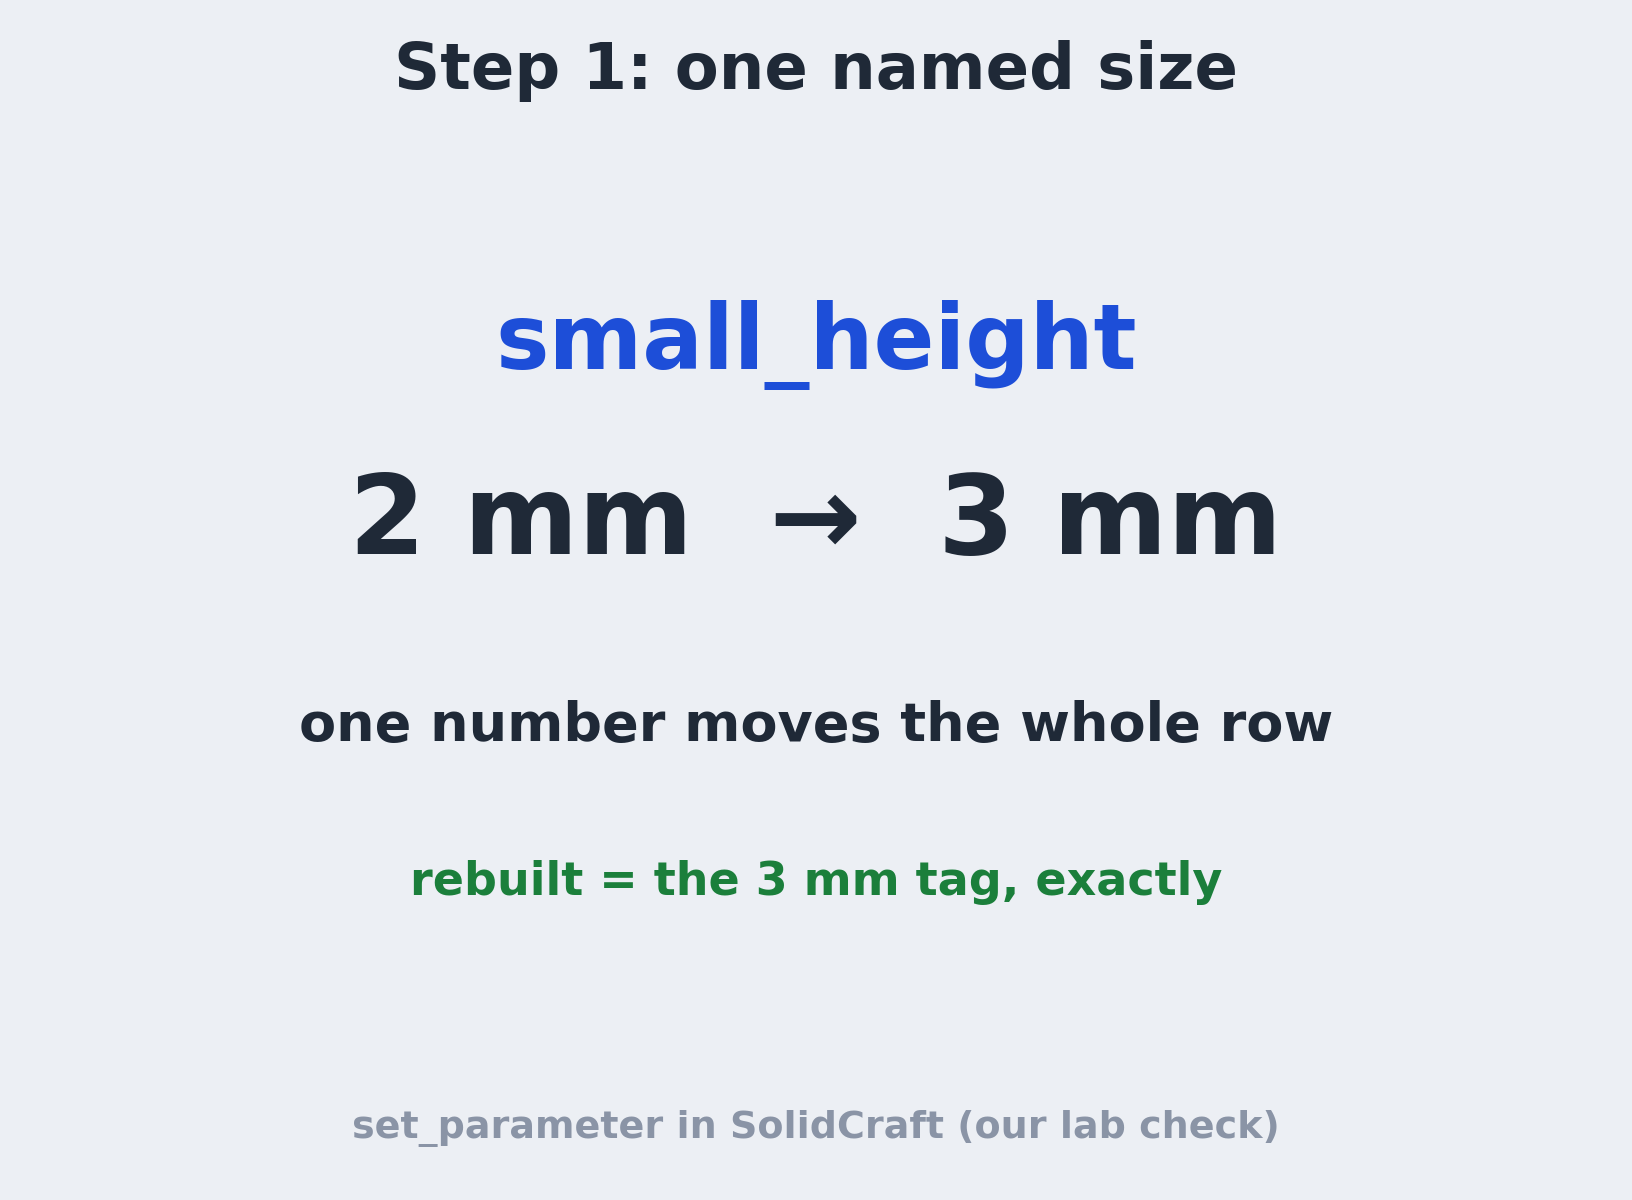
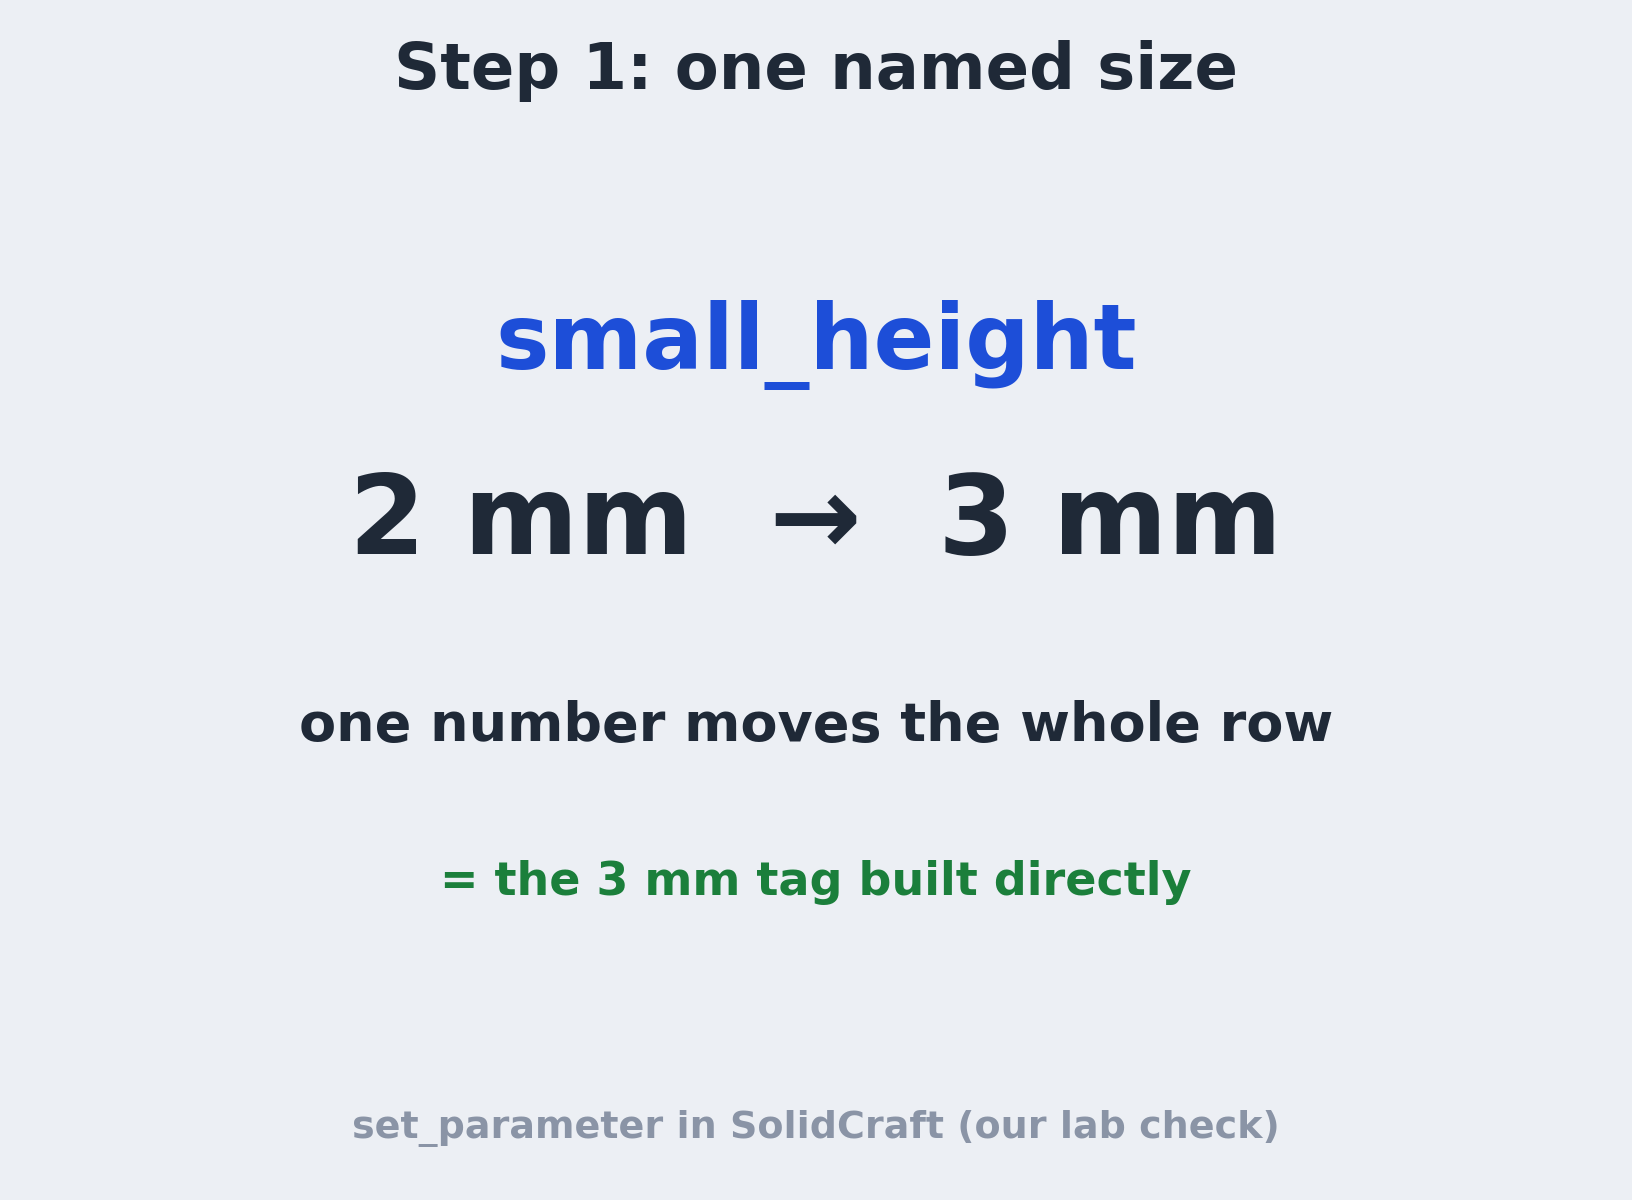
Final files for the 25 Oct GO

Changed region(s): [[0.25, 0.7092, 0.75, 0.7708]]

diff --git a/video/draw.py b/video/draw.py
@@ -290,7 +290,7 @@ def replies():
     for i, l in enumerate(q):
         text(f, 120, 200 + i * 110, l, 50, INK, ha='left')
     text(f, W / 2, 800, "the slicer's plan: within 2%", 54, GREEN)
-    text(f, W / 2, 900, 'guessed 5.5 mm · enough here: 3 mm', 48, INK)
+    text(f, W / 2, 900, 'they picked 5-5.5 mm · enough in our test: 3 mm', 44, INK)
     text(f, W / 2, 1110, 'quotes from each run\'s own reply', 38, GREY)
     save(f, 'card-replies.png')
 
@@ -303,7 +303,7 @@ def named():
     text(f, W / 2, 470, '2 mm  →  3 mm', 110, INK)
     text(f, W / 2, 700, 'one number moves the whole row', 54, INK)
     ok = nc.get('one_number_moves_the_row')
-    text(f, W / 2, 860, 'rebuilt = the 3 mm tag, exactly' if ok else '', 46, GREEN)
+    text(f, W / 2, 860, '= the 3 mm tag built directly' if ok else '', 46, GREEN)
     text(f, W / 2, 1110, 'set_parameter in SolidCraft (our lab check)', 38, GREY)
     save(f, 'card-named.png')
 
@@ -356,7 +356,7 @@ def engraved_card():
 
 engraved_card()
 card_simple('card-plan2.png', 'The plan: +44 to +56%', 'GYM BAG, 2 mm, one 0.38 mm line per stroke', 'raised-h2', 3.6, ROW2[2])
-card_simple('card-proof.png', 'Step 3: rebuilt at 3 mm', 'every counter open', 'raised-h3', 3.6, ROW2[3], footer='slicer plan, not a print')
+card_simple('card-proof.png', 'Step 3: built from scratch at 3 mm', 'every counter open', 'raised-h3', 3.6, ROW2[3], footer='slicer plan, not a print')
 strokes()
 lines()
 nozzle()
